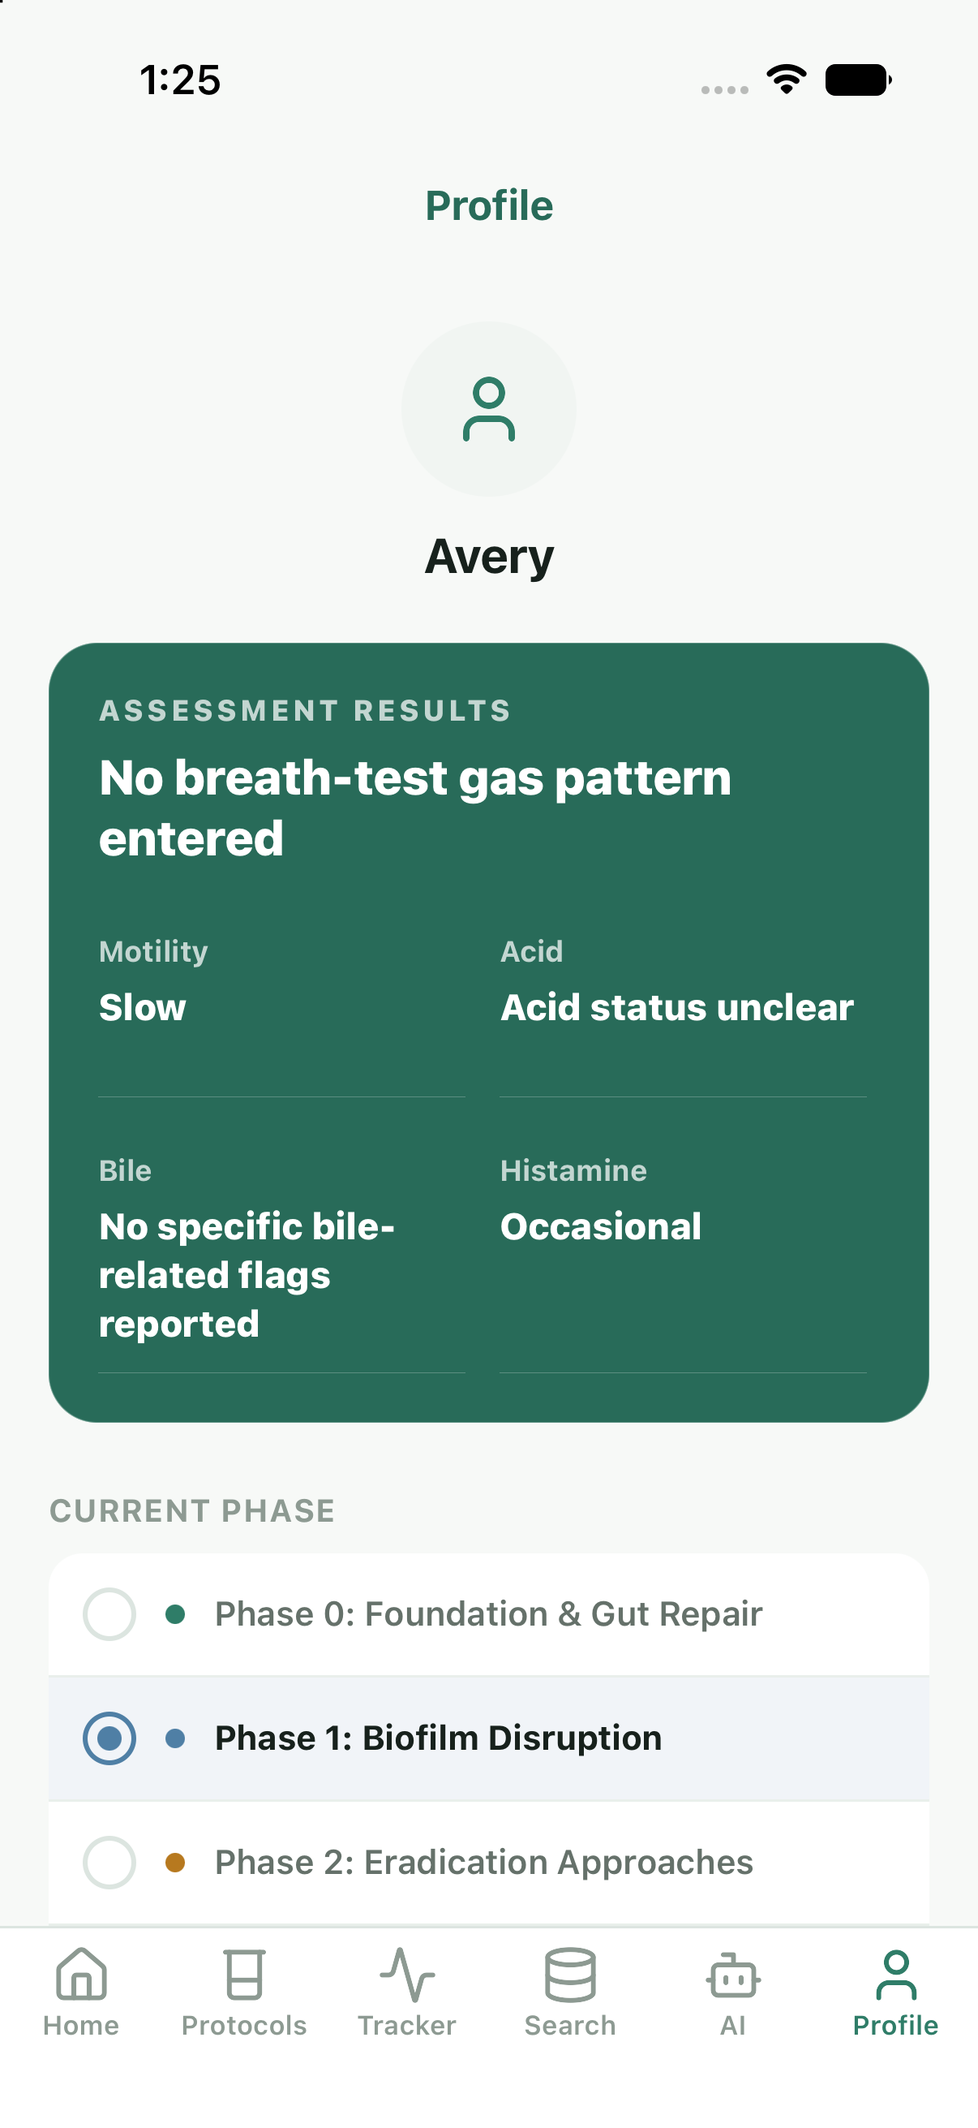
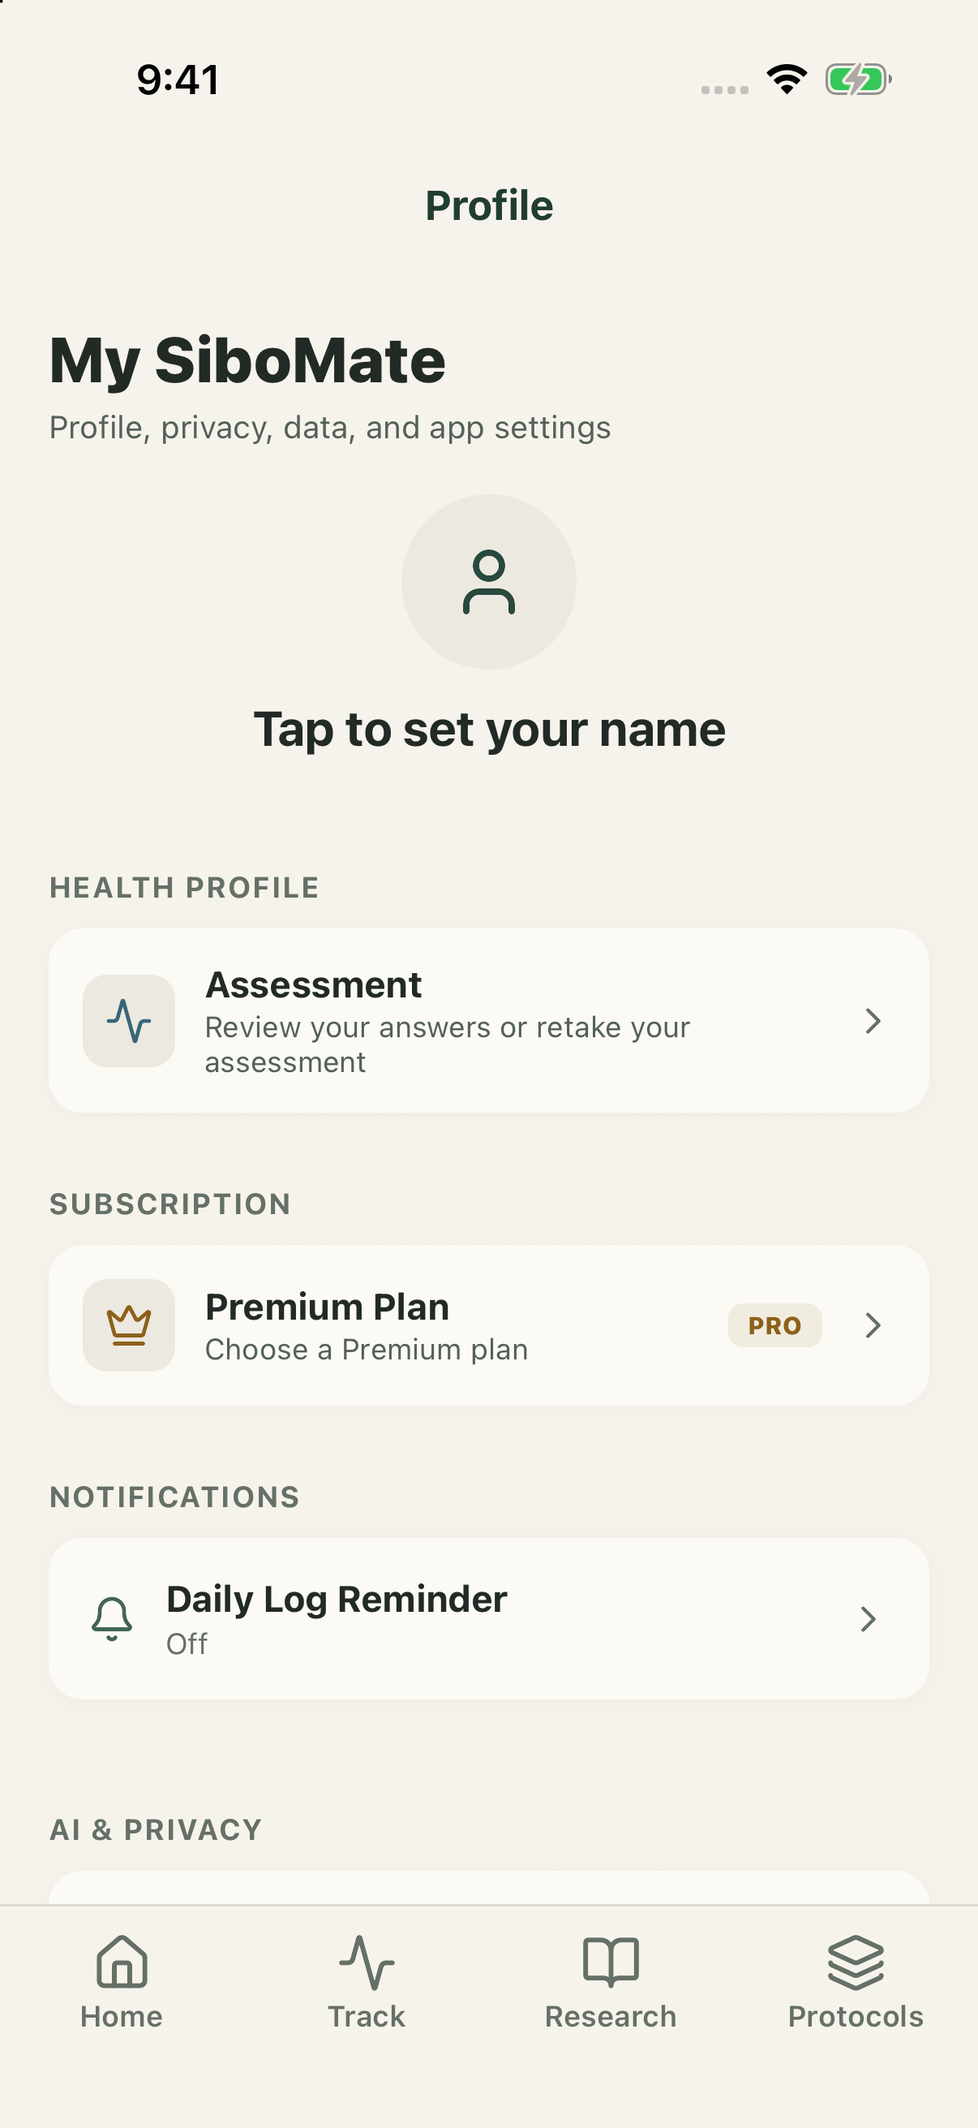
Refresh authentic light previews and refined SiboMate brand for 1.0.6

diff --git a/index.html b/index.html
@@ -5,7 +5,7 @@
     <meta name="viewport" content="width=device-width, initial-scale=1" />
     <meta name="theme-color" content="#f7f7f2" />
     <meta name="referrer" content="strict-origin-when-cross-origin" />
-    <meta http-equiv="Content-Security-Policy" content="default-src 'self'; base-uri 'self'; object-src 'none'; form-action 'self'; script-src 'self' 'sha256-Xm7NBGJ/F4JLqzv/kAYmBsfwdS9WpnKqOWlL8F8ZYoI='; style-src 'self' 'unsafe-inline' https://fonts.googleapis.com; font-src https://fonts.gstatic.com; img-src 'self' data:; connect-src 'self'; upgrade-insecure-requests" />
+    <meta http-equiv="Content-Security-Policy" content="default-src 'self'; base-uri 'self'; object-src 'none'; form-action 'self'; script-src 'self' 'sha256-etqVgZcglWVtQj0BHl1MtAY1jUo/3SEIo+hVWVHaoSQ='; style-src 'self' 'unsafe-inline' https://fonts.googleapis.com; font-src https://fonts.gstatic.com; img-src 'self' data:; connect-src 'self'; upgrade-insecure-requests" />
     <meta name="description" content="SiboMate is a privacy-first SIBO and gut-health companion for understanding symptoms, meals, research, and patterns." />
     <link rel="canonical" href="https://sibomate.me/" />
     <meta property="og:title" content="SiboMate · Understand your gut. Keep your data yours." />
@@ -22,12 +22,12 @@
     <meta name="twitter:description" content="A local-first SIBO companion for symptoms, meals, protocols, research, and patterns." />
     <meta name="twitter:image" content="https://sibomate.me/social-share.jpg" />
     <title>SiboMate · Understand your gut. Keep your data yours.</title>
-    <link rel="icon" type="image/png" sizes="32x32" href="favicon-32.png" />
-    <link rel="apple-touch-icon" sizes="180x180" href="apple-touch-icon.png" />
+    <link rel="icon" type="image/png" sizes="32x32" href="favicon-32.png?v=2" />
+    <link rel="apple-touch-icon" sizes="180x180" href="apple-touch-icon.png?v=2" />
     <link rel="preconnect" href="https://fonts.googleapis.com" />
     <link rel="preconnect" href="https://fonts.gstatic.com" crossorigin />
     <link href="https://fonts.googleapis.com/css2?family=DM+Mono:wght@400;500&family=DM+Sans:wght@400;500;600;700&family=Fraunces:opsz,wght@9..144,500;9..144,600&display=swap" rel="stylesheet" />
-    <link rel="stylesheet" href="styles.css?v=3" />
+    <link rel="stylesheet" href="styles.css?v=5" />
     <script type="application/ld+json">
       {
         "@context": "https://schema.org",
@@ -66,7 +66,7 @@
     <div class="site-shell">
       <header class="site-header" data-header>
         <a class="brand" href="#top" aria-label="SiboMate home">
-          <img class="brand-mark" src="icon-ui.webp" alt="" width="32" height="32" />
+          <img class="brand-mark" src="icon.png?v=20261011" alt="" width="32" height="32" />
           <span class="brand-name">SiboMate</span>
         </a>
         <nav class="desktop-nav" aria-label="Primary navigation">
@@ -96,7 +96,7 @@
               <a class="button button-primary" href="https://apps.apple.com/us/app/sibomate/id6792794417" target="_blank" rel="noreferrer">Download on the App Store <span>↗</span></a>
               <a class="text-link" href="#why">See how it works <span>↓</span></a>
             </div>
-            <div class="hero-note"><span class="lock-icon">⌁</span> Local-first health history&nbsp; · &nbsp;Optional cloud AI</div>
+            <div class="hero-note"><span class="lock-icon">⌁</span> Preview of the upcoming update&nbsp; · &nbsp;Free on-device AI</div>
           </div>
           <div class="hero-visual reveal reveal-delay">
             <div class="visual-grid" aria-hidden="true"><span></span><span></span><span></span><span></span><span></span><span></span></div>
@@ -106,18 +106,18 @@
               <div class="phone-glow"></div>
               <div class="phone-frame">
                 <div class="phone-notch"></div>
-                <img src="app-home.png" alt="SiboMate home screen showing a personalized gut-health overview" />
+                <img src="app-home.png?v=20261011" alt="SiboMate home screen showing a personalized gut-health overview" />
               </div>
             </div>
             <div class="floating-card floating-card-top"><span class="floating-icon">✦</span><div><strong>Notice your patterns</strong><small>without the noise</small></div></div>
-            <div class="floating-card floating-card-bottom"><span class="pulse-dot"></span><div><strong>Choose your AI path</strong><small>on-device when supported</small></div></div>
+            <div class="floating-card floating-card-bottom"><span class="pulse-dot"></span><div><strong>Free on-device AI</strong><small>Apple route when compatible</small></div></div>
           </div>
         </section>
 
         <section class="trust-strip section-pad" aria-label="SiboMate principles">
           <div class="trust-item"><span class="trust-number">01</span><div><strong>Local-first core</strong><small>Authenticated, encrypted health history.</small></div></div>
           <div class="trust-item"><span class="trust-number">02</span><div><strong>Evidence-aware</strong><small>Community reports beside cited research.</small></div></div>
-          <div class="trust-item"><span class="trust-number">03</span><div><strong>Choose your AI path</strong><small>Apple on-device when supported.</small></div></div>
+          <div class="trust-item"><span class="trust-number">03</span><div><strong>Free on-device AI</strong><small>Apple route when compatible.</small></div></div>
         </section>
 
         <section class="story section-pad" id="why">
@@ -152,8 +152,8 @@
           <div class="privacy-proof-heading"><div class="eyebrow"><span class="eyebrow-dot"></span> Privacy is part of the product</div><h2>Clear choices for sensitive <em>context.</em></h2><p>SiboMate keeps the core of your health history close, then makes each optional destination visible before data moves.</p></div>
           <div class="proof-grid">
             <article class="proof-card"><span class="proof-number">01</span><h3>Local-first core</h3><p>Health history is stored locally using authenticated encryption.</p></article>
-            <article class="proof-card"><span class="proof-number">02</span><h3>Apple on-device</h3><p>On supported iPhones, selected context can be processed on-device.</p></article>
-            <article class="proof-card"><span class="proof-number">03</span><h3>Cloud AI is optional</h3><p>Choose the provider and destination, review consent, and disconnect it whenever you want.</p></article>
+            <article class="proof-card"><span class="proof-number">02</span><h3>Free on-device AI</h3><p>AI is included on-device, with Apple’s route available where compatible.</p></article>
+            <article class="proof-card"><span class="proof-number">03</span><h3>Cloud AI stays optional</h3><p>Choose the provider and destination, review consent, and disconnect it whenever you want.</p></article>
             <article class="proof-card"><span class="proof-number">04</span><h3>Encrypted backups</h3><p>Backups are an explicit choice, with encryption designed to protect your history.</p></article>
           </div>
           <a href="privacy.html" class="text-link">Read the privacy details <span>↗</span></a>
@@ -164,21 +164,22 @@
             <div><div class="eyebrow"><span class="eyebrow-dot"></span> Inside SiboMate</div><h2>Tools for the questions<br />you actually have.</h2></div>
             <p>Each part of the app is designed to make the next useful step feel a little easier.</p>
           </div>
+          <p class="feature-preview-note">Preview of the upcoming update</p>
           <div class="feature-showcase">
             <article class="feature-row reveal">
-              <div class="feature-image"><img src="app-ai.png" alt="SiboMate AI chat screen with private on-device context controls" /></div>
-              <div class="feature-copy"><span class="feature-index">01 / 04</span><h3>AI that shows its work at the boundary.</h3><p>Use Apple on-device processing when supported, or connect a provider you choose. The app explains the destination and context before cloud AI is enabled.</p><a href="https://apps.apple.com/us/app/sibomate/id6792794417" target="_blank" rel="noreferrer" class="text-link">Explore the app <span>↗</span></a></div>
+              <div class="feature-image"><img src="app-ai.png?v=20261011" alt="SiboMate AI chat screen with private on-device context controls" /></div>
+              <div class="feature-copy"><span class="feature-index">01 / 04</span><h3>AI that shows its work at the boundary.</h3><p>AI is included on-device, with Apple’s route available where compatible. Optional cloud destinations stay explicit and consent-led.</p><a href="https://apps.apple.com/us/app/sibomate/id6792794417" target="_blank" rel="noreferrer" class="text-link">Explore the app <span>↗</span></a></div>
             </article>
             <article class="feature-row feature-row-reverse reveal">
-              <div class="feature-image"><img src="app-database.png" alt="SiboMate community database screen with private on-device search" /></div>
-              <div class="feature-copy"><span class="feature-index">02 / 04</span><h3>Research you can actually move through.</h3><p>Search patient-reported experiences and cited research by symptom, treatment, or topic, then save what feels relevant to your conversation.</p><a href="https://apps.apple.com/us/app/sibomate/id6792794417" target="_blank" rel="noreferrer" class="text-link">See what’s inside <span>↗</span></a></div>
+              <div class="feature-image"><img src="app-database.png?v=20261011" alt="SiboMate research library screen with local resources and learning topics" /></div>
+              <div class="feature-copy"><span class="feature-index">02 / 04</span><h3>Research you can actually move through.</h3><p>Browse research resources and learning topics in one focused library, then save what feels relevant to your conversation.</p><a href="https://apps.apple.com/us/app/sibomate/id6792794417" target="_blank" rel="noreferrer" class="text-link">See what’s inside <span>↗</span></a></div>
             </article>
             <article class="feature-row reveal">
-              <div class="feature-image"><img src="app-tracker.png" alt="SiboMate tracker screen for logging meals and symptoms" /></div>
+              <div class="feature-image"><img src="app-tracker.png?v=20261011" alt="SiboMate tracker screen for logging meals and symptoms" /></div>
               <div class="feature-copy"><span class="feature-index">03 / 04</span><h3>A tracker you’ll want to keep open.</h3><p>Capture symptoms and meals quickly, then turn a long stream of days into something you can reflect on.</p><a href="https://apps.apple.com/us/app/sibomate/id6792794417" target="_blank" rel="noreferrer" class="text-link">Start noticing <span>↗</span></a></div>
             </article>
             <article class="feature-row feature-row-reverse feature-row-last reveal">
-              <div class="feature-image feature-image-sage"><img src="app-protocols.png" alt="SiboMate protocol library with phases and research context" /></div>
+              <div class="feature-image feature-image-sage"><img src="app-protocols.png?v=20261011" alt="SiboMate protocol library with phases and research context" /></div>
               <div class="feature-copy"><span class="feature-index">04 / 04</span><h3>Protocol information with guardrails.</h3><p>Read phase-by-phase summaries with research context and clear reminders to make health decisions with a qualified professional.</p><a href="#plans" class="text-link">View plans <span>↓</span></a></div>
             </article>
           </div>
@@ -211,7 +212,7 @@
         </section>
 
         <section class="final-cta section-pad reveal">
-          <img class="final-cta-mark" src="icon-ui.webp" alt="" width="82" height="82" />
+          <img class="final-cta-mark" src="icon.png?v=20261011" alt="" width="82" height="82" />
           <div class="eyebrow"><span class="eyebrow-dot"></span> Your next useful step</div>
           <h2>Make a little more sense<br />of how you <em>feel.</em></h2>
           <a class="button button-primary" href="https://apps.apple.com/us/app/sibomate/id6792794417" target="_blank" rel="noreferrer">Download SiboMate <span>↗</span></a>
@@ -219,11 +220,11 @@
       </main>
 
       <footer class="site-footer section-pad">
-        <div class="footer-main"><a class="brand" href="#top"><img class="brand-mark" src="icon-ui.webp" alt="" width="32" height="32" /><span class="brand-name">SiboMate</span></a><p>A private SIBO and gut-health companion.</p></div>
+        <div class="footer-main"><a class="brand" href="#top"><img class="brand-mark" src="icon.png?v=20261011" alt="" width="32" height="32" /><span class="brand-name">SiboMate</span></a><p>A private SIBO and gut-health companion.</p></div>
         <div class="footer-links"><a href="privacy.html">Privacy &amp; Support</a><a href="https://www.apple.com/legal/internet-services/itunes/dev/stdeula/" target="_blank" rel="noreferrer">Terms</a><a href="https://apps.apple.com/us/app/sibomate/id6792794417" target="_blank" rel="noreferrer">App Store <span>↗</span></a></div>
         <div class="footer-bottom"><span>© 2026 SiboMate</span><span>For education, not diagnosis or treatment.</span></div>
       </footer>
     </div>
-    <script src="script.js"></script>
+    <script src="script.js?v=2"></script>
   </body>
 </html>

diff --git a/privacy.html b/privacy.html
@@ -18,12 +18,12 @@
     <meta name="twitter:description" content="How SiboMate handles your information, purchases, and support requests." />
     <meta name="twitter:image" content="https://sibomate.me/social-share.jpg" />
     <title>Privacy &amp; Support · SiboMate</title>
-    <link rel="icon" type="image/png" sizes="32x32" href="favicon-32.png" />
-    <link rel="apple-touch-icon" sizes="180x180" href="apple-touch-icon.png" />
+    <link rel="icon" type="image/png" sizes="32x32" href="favicon-32.png?v=2" />
+    <link rel="apple-touch-icon" sizes="180x180" href="apple-touch-icon.png?v=2" />
     <link rel="preconnect" href="https://fonts.googleapis.com" />
     <link rel="preconnect" href="https://fonts.gstatic.com" crossorigin />
     <link href="https://fonts.googleapis.com/css2?family=DM+Mono:wght@400;500&amp;family=DM+Sans:wght@400;500;600;700&amp;family=Fraunces:opsz,wght@9..144,500;9..144,600&amp;display=swap" rel="stylesheet" />
-    <link rel="stylesheet" href="styles.css?v=4" />
+    <link rel="stylesheet" href="styles.css?v=5" />
   </head>
   <body>
     <div class="site-shell">
@@ -36,12 +36,12 @@
         <section class="legal-hero section-pad">
           <div class="eyebrow"><span class="eyebrow-dot"></span> Privacy &amp; Support</div>
           <h1>Private by <em>default.</em></h1>
-          <p>SiboMate uses a local-first core for your health history. Optional AI and backup destinations are clearly separated, consent-led, and described before use.</p>
-          <small>Last updated: September 9, 2026</small>
+          <p>SiboMate uses a local-first core for your health history. Free on-device AI is included, while optional cloud and backup destinations are clearly separated, consent-led, and described before use.</p>
+          <small>Last updated: October 11, 2026</small>
         </section>
 
         <article class="legal-content section-pad">
-          <p class="legal-lede">The short version: your core health history is stored locally using authenticated encryption. Optional AI requests go directly to the provider and destination you choose after consent. Optional backups are encrypted. SiboMate does not route cloud AI requests through its own server.</p>
+          <p class="legal-lede">The short version: your core health history is stored locally using authenticated encryption. On-device AI processes local inputs on the device where compatible. Only optional cloud AI sends the selected context to the provider and destination you choose after consent. Optional backups are encrypted. SiboMate does not route cloud AI requests through its own server.</p>
 
           <h2>What information the app handles</h2>
           <h3>Stored locally by default</h3>
@@ -60,8 +60,8 @@
           <ul><li>We do not require or create a SiboMate account.</li><li>We do not use third-party advertising or tracking SDKs.</li><li>We do not sell your personal information.</li></ul>
 
           <h2>AI features and your health information</h2>
-          <p>The AI feature is optional and turned off until you enable it. Before you can use it, the app shows a consent screen explaining what will be shared, and you must agree.</p>
-          <p>When you ask the AI a question, the app sends your question and the context you selected, which may include assessment results, logs, and matching research excerpts, to the destination shown in the app. Apple on-device processing is available on supported iPhones. Cloud requests go directly to the provider you choose, using the API key you entered, and do not pass through our servers. The provider’s own privacy policy and terms apply. You can disconnect the AI and remove your key at any time.</p>
+          <p>Free on-device AI is included in SiboMate and remains optional to use. Where compatible, your question and selected local context are processed on the device. Before optional cloud AI is used, the app shows a consent screen explaining what will be shared, and you must agree.</p>
+          <p>Only optional cloud AI sends the question and context you select, which may include assessment results, logs, and matching research excerpts, to the provider and destination shown in the app. Apple’s on-device route is available where compatible. Cloud requests go directly to the provider you choose, using the API key you entered, and do not pass through our servers. The provider’s own privacy policy and terms apply. You can disconnect cloud AI and remove your key at any time.</p>
           <p><strong>AI answers are not medical advice.</strong> They can be incomplete or wrong. Always consult a qualified healthcare professional before making health decisions.</p>
 
           <h2>Purchases</h2>

diff --git a/styles.css b/styles.css
@@ -116,6 +116,7 @@ h2 { font-size: clamp(2.75rem, 5vw, 5.4rem); line-height: .98; margin: 20px 0; }
 .feature-heading { display: flex; justify-content: space-between; align-items: flex-end; gap: 30px; margin-bottom: 50px; }
 .feature-heading h2 { margin-bottom: 0; }
 .feature-heading > p { margin-bottom: 4px; }
+.feature-preview-note { margin: -28px 0 26px; color: var(--teal); font-family: var(--mono); font-size: .62rem; letter-spacing: .08em; text-transform: uppercase; }
 .feature-showcase { display: grid; gap: 22px; }
 .feature-row { display: grid; grid-template-columns: minmax(280px, 1fr) minmax(280px, .87fr); align-items: center; gap: clamp(2rem, 7vw, 8rem); padding: clamp(1.3rem, 3vw, 2.6rem); border-radius: 24px; background: var(--sage); }
 .feature-row-reverse { grid-template-columns: minmax(280px, .87fr) minmax(280px, 1fr); }.feature-row-reverse .feature-image { order: 2; }.feature-row-reverse .feature-copy { order: 1; }

diff --git a/CURRENT.md b/CURRENT.md
@@ -1,0 +1,9 @@
+# Current state
+
+- **Goal:** Refresh the canonical site with approved light-theme app captures and clearer included on-device AI wording.
+- **Working state:** Reviewed local refresh ready for the owner-authorized deployment.
+- **Updated:** Six authentic light captures from signed native build 86, the approved refined icon and resized derivatives, AI copy, privacy wording, cache versions, and preview labels for the upcoming app update.
+- **Release note:** The public App Store listing is older than build 86, so the hero and feature showcase are labeled as previews.
+- **Next step:** Publish the reviewed update, then verify deployed assets. Latest owner request authorizes website publication and App Store 1.0.6 submission.
+
+- **Verification:** All six 1206×2622 native captures; 1320×2868 opaque App Store posters; desktop1440/mobile390 rendered with no broken images or horizontal overflow. Approved refined mascot now used in header/footer, favicon, app icon and social-share image. JSON-LD content unchanged; its CSP hash corrected to match existing text.

diff --git a/PROJECT.md b/PROJECT.md
@@ -1,0 +1,12 @@
+# Project
+
+- **Purpose:** Public SiboMate marketing, privacy, support, and purchase information.
+- **Canonical repo:** `ammarb132/sibomate-site`, `main`.
+- **Canonical domain:** `https://sibomate.me/`.
+- **Authoritative pages:** `index.html` and `privacy.html`; shared presentation is in `styles.css` and `script.js`.
+- **Asset policy:** Use approved SiboMate brand assets and authentic app captures. Keep filenames referenced by HTML stable unless every reference is updated.
+- **Release policy:** Do not publish or change prices, contact details, App Store links, or privacy/security claims without owner review. Never add secrets.
+
+## Verification
+
+Before handoff, check local asset references, image dimensions, `git diff --check`, and the CSP metadata. The repository owner reviews and controls push/deployment.

diff --git a/README.md b/README.md
@@ -1,0 +1,5 @@
+# SiboMate website
+
+This repository is the canonical static site for [sibomate.me](https://sibomate.me/). The site is intentionally dependency-light: the HTML, CSS, JavaScript, and image assets are served directly from the `main` branch.
+
+Keep product claims aligned with the current app and privacy policy. Preserve the App Store link, published prices, contact address, accessibility text, and content security policy when refreshing visuals or copy. Review changes locally before the repository owner pushes or deploys them.
